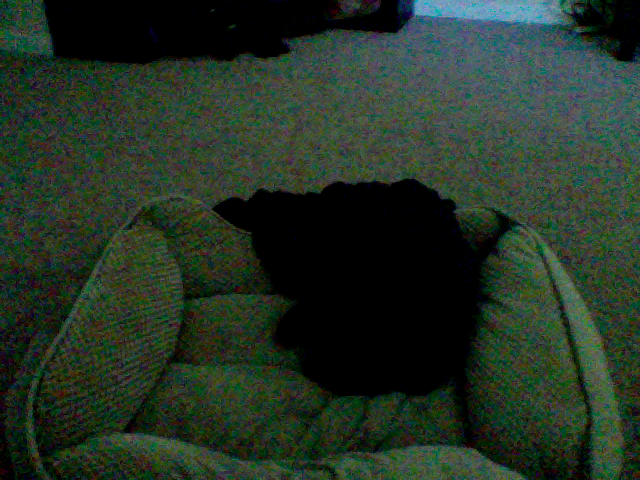
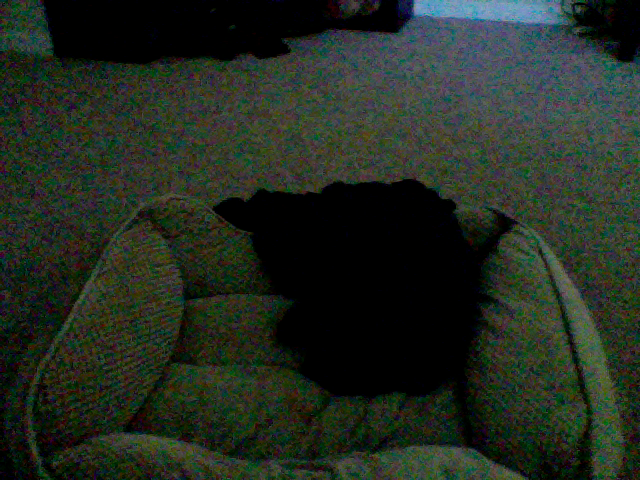
update at Month05Day08Time18:57

diff --git a/index.html b/index.html
@@ -39,8 +39,8 @@
       <!-- Example row of columns -->
       <div class="row">
         <div class="col-md-4">
-	<p>This picture was updated at Month05Day08Time18:56</p>
-		<img src="10_pic.png" />
+	<p>This picture was updated at Month05Day08Time18:57</p>
+		<img src="8_pic.png" />
         </div>
       </div>
 
